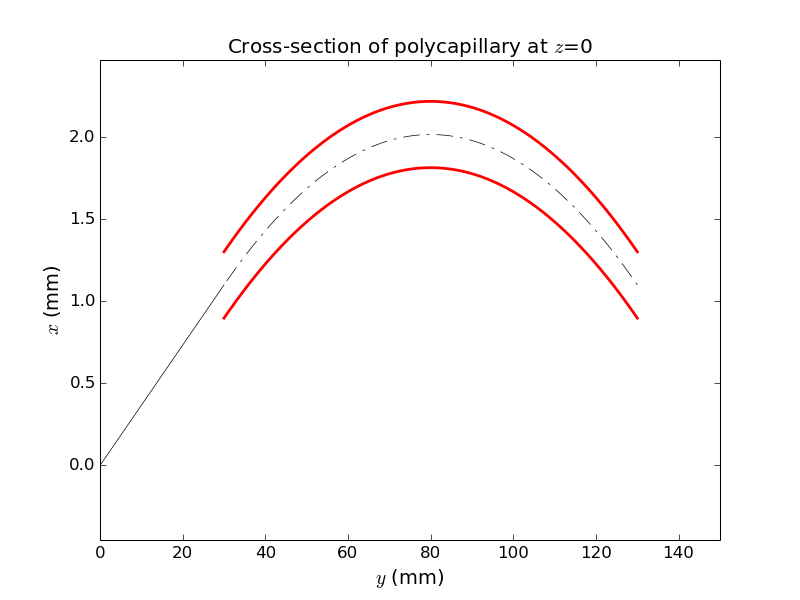
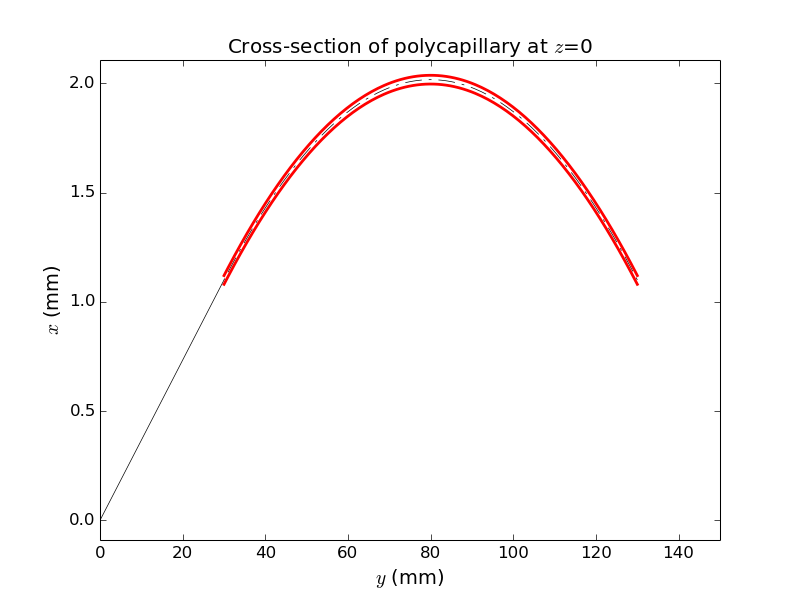
Some unwanted external reflections
- something is not right with new source definition,
- pls build setup starting with SourceViewer file

diff --git a/simplfiedMonoCapillary.py b/simplfiedMonoCapillary.py
@@ -37,8 +37,8 @@ nRefl = 30          # number of reflections
 rSample = 30.0 # starting position of the lens
 L_ = 100.0
 f = rSample + L_ # y length in mm from foucs to the end of the lens
-r0 = 0.202
-rOut = 0.202
+r0 = 0.02
+rOut = 0.02
 wall = 0.005
 
 # parameters for local_x0 function for actual shape definition
@@ -132,17 +132,17 @@ class StraightCapillary(roe.OE):
 def build_beamline(nrays=500):
     beamLine = raycing.BeamLine(height=0)
     # source checked @SourceView.py
-#    rs.GeometricSource(
-#        beamLine, 'GeometricSource', (0,0,0), nrays=nrays,
-#        distx=distx, dx=dx, distxprime=distxprime, dxprime=dxprime,
-#        distz=distz, dz=dz, distzprime=distzprime, dzprime=dzprime,
-#        distE='lines', energies=(E0,), polarization='horizontal')            
-    
     rs.GeometricSource(
         beamLine, 'GeometricSource', (0,0,0), nrays=nrays,
-        dx=0., dz=0., distxprime='annulus',
-        distE='lines', energies=(E0,), polarization='horizontal')                
+        distx=distx, dx=dx, distxprime=distxprime, dxprime=dxprime,
+        distz=distz, dz=dz, distzprime=distzprime, dzprime=dzprime,
+        distE='lines', energies=(E0,), polarization='horizontal')            
     
+#    rs.GeometricSource(
+#        beamLine, 'GeometricSource', (0,0,0), nrays=nrays,
+#        dx=0., dz=0., distxprime='annulus',
+#        distE='lines', energies=(E0,), polarization='horizontal')                
+#    
     # yo    
     beamLine.fsm1 = rsc.Screen(beamLine, 'DiamondFSM1', (0,screen1_pos,0))
     
@@ -272,5 +272,5 @@ def main():
     
     
 if __name__ == '__main__':
-    PlotMono.plot2D(build_beamline(),f)
-#    main()
+#    PlotMono.plot2D(build_beamline(),f)
+    main()
